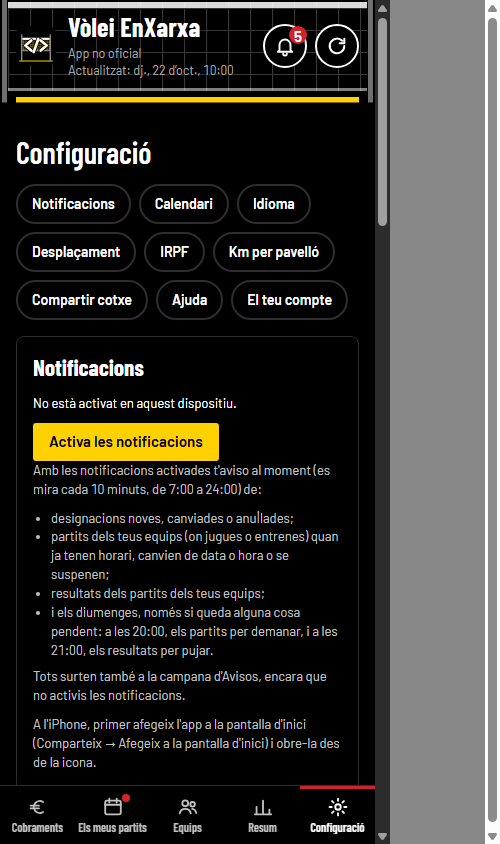
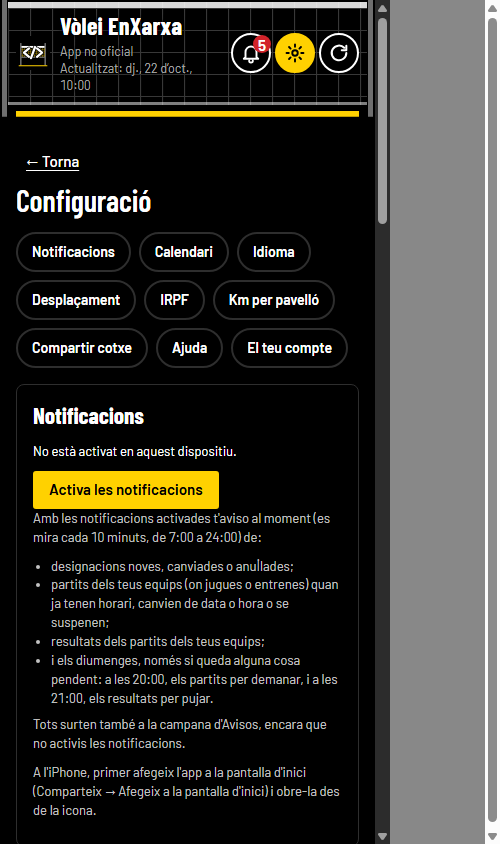
Ajustes: botón de engranaje junto a la campana y página aparte

Changed region(s): [[0.0, 0.0, 0.75, 0.9858], [0.69, 0.4005, 0.72, 0.4313]]

diff --git a/docs/index.html b/docs/index.html
@@ -89,6 +89,9 @@ input[type=checkbox]{accent-color:var(--red);width:16px;height:16px}
 .brand .sub .upd{white-space:nowrap;overflow:hidden;text-overflow:ellipsis}
 a.gh{display:inline-flex;align-items:center;gap:5px;color:inherit;font-weight:600}
 .board .actions{display:flex;gap:8px;align-items:center;flex:none}
+/* Móvil estrecho: 3 botones (Avisos, Ajustes, Actualizar) y el título en una línea; la fecha puede ir en 2 */
+@media (max-width:440px){ .board .actions{gap:4px} .board .actions .iconbtn{width:40px;height:40px} .board .top{gap:10px} .brand{gap:10px!important} .brand .logo{height:34px!important} .board h1{font-size:24px;white-space:nowrap} .brand .sub .upd{white-space:normal} }
+#btnAjustes[aria-current="page"],#mbAjustes[aria-current="page"]{background:var(--yellow);color:#000;border-color:var(--yellow)}
 .board button{border-color:var(--board-ink);color:var(--board-ink)}
 .board button.ghost{border-color:transparent}
 .board button:focus-visible{outline-color:var(--yellow)}
@@ -263,6 +266,11 @@ table.venues td:last-child{text-align:right;white-space:nowrap}
 .grid2{display:grid;grid-template-columns:1fr 1fr;gap:28px}
 /* Ajustes: pestaña propia, una tarjeta por tema e índice arriba */
 .ajustes{max-width:760px}
+.aj-back{padding-left:0;font-weight:700}
+.aj-t:focus{outline:none}   /* el foco se pone al abrir la página (para lectores de pantalla), sin recuadro */
+/* Ajustes es una página aparte: sin pestañas, ni la línea de estado, ni la tarjeta de activar avisos */
+body[data-vista="ajustes"] .views,body[data-vista="ajustes"] #pushCard{display:none}
+@media (max-width:720px){ body[data-vista="ajustes"] #appView{padding-bottom:24px} }
 .aj-t{font-family:var(--display);font-size:30px;margin:0 0 10px}
 .aj-nav{display:flex;flex-wrap:wrap;gap:8px;margin:0 0 16px}
 .aj-nav a{display:inline-flex;align-items:center;min-height:40px;padding:4px 14px;border:2px solid var(--line);border-radius:20px;color:var(--ink);text-decoration:none;font-size:14px;font-weight:600}
@@ -492,8 +500,6 @@ body[data-vista="cobros"]:not(.dep) .board .statline .chev{display:block}
   .views{position:fixed;left:0;right:0;bottom:0;z-index:40;width:auto;max-width:none;margin:0;border:0;border-top:1px solid var(--line);border-radius:0;overflow:visible;background:var(--bg);padding:0 0 env(safe-area-inset-bottom,0px);box-shadow:0 -2px 12px rgba(0,0,0,.08)}
   .views button{flex:1 1 0;min-width:0;position:relative;display:flex;flex-direction:column;align-items:center;justify-content:center;gap:3px;min-height:58px;padding:6px 2px;font-size:13px;line-height:1.1;white-space:nowrap;color:var(--ink-2)}
   .views button span{max-width:100%;overflow:hidden;text-overflow:ellipsis}
-  .views button:nth-last-child(5):first-child,.views button:nth-last-child(5):first-child~button{font-size:12px}
-  .views button:nth-last-child(5):first-child span,.views button:nth-last-child(5):first-child~button span{white-space:normal;text-align:center}
   .views .ico{display:block;width:22px;height:22px}
   .views button[aria-selected="true"]{background:transparent;color:var(--ink);box-shadow:inset 0 3px 0 var(--red)}
   .views button.dot::after{position:absolute;top:8px;left:calc(50% + 9px);margin:0}
@@ -804,7 +810,7 @@ table.clas tr.hist td{padding:4px 0 10px;text-align:left;background:transparent;
 </main>
 
 <!-- ============ App ============ -->
-<div class="minibar" id="miniBar" inert><img src="icon.svg" width="28" height="28" alt=""><strong>Vòlei EnXarxa</strong><button type="button" id="mbAvisos" aria-label="Avisos"><svg viewBox="0 0 24 24" width="20" height="20" aria-hidden="true"><path d="M6 16.5V11a6 6 0 0 1 12 0v5.5l1.8 1.8H4.2zM10 20.5a2 2 0 0 0 4 0" fill="none" stroke="currentColor" stroke-width="2.1" stroke-linecap="round" stroke-linejoin="round"/></svg><span class="bdg hidden" id="mbBdg"></span></button><button type="button" class="arb-only" id="mbSync" aria-label="Actualizar ahora"><svg viewBox="0 0 24 24" width="20" height="20" aria-hidden="true"><path d="M20 12a8 8 0 1 1-2.3-5.7M20 4v5h-5" fill="none" stroke="currentColor" stroke-width="2.2" stroke-linecap="round" stroke-linejoin="round"/></svg></button></div>
+<div class="minibar" id="miniBar" inert><img src="icon.svg" width="28" height="28" alt=""><strong>Vòlei EnXarxa</strong><button type="button" id="mbAvisos" aria-label="Avisos"><svg viewBox="0 0 24 24" width="20" height="20" aria-hidden="true"><path d="M6 16.5V11a6 6 0 0 1 12 0v5.5l1.8 1.8H4.2zM10 20.5a2 2 0 0 0 4 0" fill="none" stroke="currentColor" stroke-width="2.1" stroke-linecap="round" stroke-linejoin="round"/></svg><span class="bdg hidden" id="mbBdg"></span></button><button type="button" id="mbAjustes" aria-label="Ajustes"><svg viewBox="0 0 24 24" width="20" height="20" aria-hidden="true"><g fill="none" stroke="currentColor" stroke-width="2.1" stroke-linecap="round" stroke-linejoin="round"><circle cx="12" cy="12" r="3"/><path d="M12 2.8v2.4M12 18.8v2.4M2.8 12h2.4M18.8 12h2.4M5.5 5.5l1.7 1.7M16.8 16.8l1.7 1.7M5.5 18.5l1.7-1.7M16.8 7.2l1.7-1.7"/></g></svg></button><button type="button" class="arb-only" id="mbSync" aria-label="Actualizar ahora"><svg viewBox="0 0 24 24" width="20" height="20" aria-hidden="true"><path d="M20 12a8 8 0 1 1-2.3-5.7M20 4v5h-5" fill="none" stroke="currentColor" stroke-width="2.2" stroke-linecap="round" stroke-linejoin="round"/></svg></button></div>
 <main id="appView" class="hidden">
   <div class="board">
     <div class="top">
@@ -814,6 +820,7 @@ table.clas tr.hist td{padding:4px 0 10px;text-align:left;background:transparent;
       </div>
       <div class="actions">
         <button id="btnAvisos" class="iconbtn" aria-label="Avisos"><svg viewBox="0 0 24 24" width="22" height="22" aria-hidden="true"><path d="M6 16.5V11a6 6 0 0 1 12 0v5.5l1.8 1.8H4.2zM10 20.5a2 2 0 0 0 4 0" fill="none" stroke="currentColor" stroke-width="2.1" stroke-linecap="round" stroke-linejoin="round"/></svg><span class="bdg hidden" id="avBdg"></span></button>
+        <button id="btnAjustes" class="iconbtn" aria-label="Ajustes"><svg viewBox="0 0 24 24" width="22" height="22" aria-hidden="true"><g fill="none" stroke="currentColor" stroke-width="2.1" stroke-linecap="round" stroke-linejoin="round"><circle cx="12" cy="12" r="3"/><path d="M12 2.8v2.4M12 18.8v2.4M2.8 12h2.4M18.8 12h2.4M5.5 5.5l1.7 1.7M16.8 16.8l1.7 1.7M5.5 18.5l1.7-1.7M16.8 7.2l1.7-1.7"/></g></svg></button>
         <button id="btnSync" class="iconbtn arb-only" aria-label="Actualizar ahora"><svg viewBox="0 0 24 24" width="22" height="22" aria-hidden="true"><path d="M20 12a8 8 0 1 1-2.3-5.7M20 4v5h-5" fill="none" stroke="currentColor" stroke-width="2.2" stroke-linecap="round" stroke-linejoin="round"/></svg></button>
       </div>
     </div>
@@ -837,7 +844,6 @@ table.clas tr.hist td{padding:4px 0 10px;text-align:left;background:transparent;
     <button type="button" data-view="agenda" role="tab"><svg class="ico" viewBox="0 0 24 24" aria-hidden="true"><g fill="none" stroke="currentColor" stroke-width="2" stroke-linecap="round"><rect x="3.5" y="5" width="17" height="15" rx="2"/><path d="M3.5 9.5h17M8 3v4M16 3v4"/></g></svg><span>Mis partidos</span></button>
     <button type="button" data-view="equipos" role="tab" id="tabEquipos"><svg class="ico" viewBox="0 0 24 24" aria-hidden="true"><g fill="none" stroke="currentColor" stroke-width="2" stroke-linecap="round"><circle cx="9" cy="8" r="3.2"/><path d="M3 19c.6-3.3 3-5 6-5s5.4 1.7 6 5"/><circle cx="17" cy="9" r="2.5"/><path d="M16.5 14c2.4.3 4 1.9 4.5 4.5"/></g></svg><span>Equipos</span></button>
     <button type="button" data-view="resumen" role="tab" class="arb-only"><svg class="ico" viewBox="0 0 24 24" aria-hidden="true"><path d="M5 20v-8M12 20V5M19 20v-5M3 20h18" fill="none" stroke="currentColor" stroke-width="2" stroke-linecap="round"/></svg><span>Resumen</span></button>
-    <button type="button" data-view="ajustes" role="tab"><svg class="ico" viewBox="0 0 24 24" aria-hidden="true"><g fill="none" stroke="currentColor" stroke-width="2" stroke-linecap="round" stroke-linejoin="round"><circle cx="12" cy="12" r="3"/><path d="M12 2.8v2.4M12 18.8v2.4M2.8 12h2.4M18.8 12h2.4M5.5 5.5l1.7 1.7M16.8 16.8l1.7 1.7M5.5 18.5l1.7-1.7M16.8 7.2l1.7-1.7"/></g></svg><span>Ajustes</span></button>
   </div>
   <div class="banner hidden" id="banner"></div>
   <div class="alerts" id="alerts"></div>
@@ -884,7 +890,8 @@ table.clas tr.hist td{padding:4px 0 10px;text-align:left;background:transparent;
   </details>
 
   <div id="ajustes" class="hidden ajustes">
-    <h2 class="aj-t">Ajustes</h2>
+    <button type="button" class="ghost back aj-back" data-aj-back>← Volver</button>
+    <h2 class="aj-t" tabindex="-1">Ajustes</h2>
     <nav class="aj-nav" aria-label="Secciones de Ajustes">
       <a href="#aj-avisos">Notificaciones</a><a href="#aj-cal">Calendario</a><a href="#aj-idioma">Idioma</a><a class="arb-only" href="#aj-despl">Desplazamiento</a><a class="arb-only" href="#aj-irpf">IRPF</a><a class="arb-only" href="#aj-km">Km por pabellón</a><a class="arb-only" href="#aj-coche">Compartir coche</a><a href="#aj-ayuda">Ayuda</a><a href="#aj-cuenta">Tu cuenta</a>
     </nav>
@@ -1696,7 +1703,8 @@ function render(){
   $('tabEquipos').classList.toggle('hidden', GUEST);
   led.classList.toggle('hidden', VIEW!=='cobros'); $('agenda').classList.toggle('hidden', VIEW!=='agenda'); $('equipos').classList.toggle('hidden', VIEW!=='equipos'); $('resumen').classList.toggle('hidden', VIEW!=='resumen');
   $('calc').classList.toggle('hidden', VIEW!=='calc'); if(VIEW!=='calc') $('calc').dataset.built='';
-  $('ajustes').classList.toggle('hidden', VIEW!=='ajustes'); $('manualPanel').classList.toggle('hidden', !['cobros','agenda'].includes(VIEW));
+  $('ajustes').classList.toggle('hidden', VIEW!=='ajustes');
+  for(const id of ['btnAjustes','mbAjustes']) VIEW==='ajustes' ? $(id).setAttribute('aria-current','page') : $(id).removeAttribute('aria-current'); $('manualPanel').classList.toggle('hidden', !['cobros','agenda'].includes(VIEW));
   const noCtrl = ['equipos','calc','ajustes'].includes(VIEW);
   $('ctrl').classList.toggle('hidden', noCtrl); if(noCtrl) $('fsum').classList.add('hidden');
   if(VIEW!=='agenda'){ $('ctrlSlot').innerHTML=''; AG_INFO=null; }
@@ -1866,7 +1874,14 @@ function renderCalcOut(){
     <p class="small muted">Una ida y vuelta por jornada y pabellón: mañana y tarde cuentan aparte. Los peajes van aparte.</p>
     <p>${r.km>0 ? `${r.km} km × 2 × ${eur(rate)} = <b>${eur(r.km*2*rate)}</b>${r.minimo?` → <span>mínimo</span> <b>${eur(minT)}</b>`:''}` : '<span class="muted">Pon los km de ida arriba para ver la cuenta.</span>'}</p>`;
 }
-$('ajustes').addEventListener('click', e=>{ if(e.target.closest('[data-open-calc]')) openCalc(''); });
+// Ajustes: página aparte desde el engranaje de la cabecera; "Volver" lleva a la pestaña de antes.
+let AJ_FROM = null;
+function openAjustes(){ if(VIEW!=='ajustes') AJ_FROM=VIEW; VIEW='ajustes'; render(); scrollTo(0,0); $('ajustes').querySelector('.aj-t')?.focus(); }
+for(const id of ['btnAjustes','mbAjustes']) $(id).addEventListener('click', openAjustes);
+$('ajustes').addEventListener('click', e=>{
+  if(e.target.closest('[data-open-calc]')) openCalc('');
+  if(e.target.closest('[data-aj-back]')){ VIEW = AJ_FROM && AJ_FROM!=='ajustes' ? AJ_FROM : (DEP?'agenda':'cobros'); render(); scrollTo(0,0); }
+});
 $('calc').addEventListener('click', e=>{ if(e.target.closest('[data-calc-back]')){ VIEW='cobros'; render(); scrollTo(0,0); } });
 $('calc').addEventListener('input', e=>{
   const k=e.target.dataset.c; if(k==null && e.target.dataset.tcat==null) return;
@@ -2330,6 +2345,7 @@ try{ AGROLE=localStorage.getItem('liq-agenda-rol')||'todo'; }catch(e){}
 // De quién es cada partido de la agenda: arbitraje, jugador (también invitado), entrenador o un equipo que solo sigo.
 const itemRole = it => it.m ? 'arbitro' : (it.x.f.rol==='entrenador' ? 'entrenador' : it.x.f.rol ? 'jugador' : 'sigo');
 try{ VIEW=localStorage.getItem(VIEW_KEY)||'cobros'; }catch(e){}
+if(VIEW==='ajustes') VIEW='cobros';   // Ajustes es una página aparte: no se abre sola al entrar
 // Al abrir desde una notificación (?vista=agenda), directamente en esa pestaña.
 let OPEN_AVISOS = new URLSearchParams(location.search).has('avisos');   // desde una notificación: abrir los Avisos
 { const v=new URLSearchParams(location.search).get('vista'); if(['cobros','agenda','equipos','resumen'].includes(v)){ VIEW=v; history.replaceState(null,'',location.pathname); }

diff --git a/docs/i18n-ca.js b/docs/i18n-ca.js
@@ -507,6 +507,7 @@ I.exact = {
 "Secciones de Ajustes": "Seccions de Configuració",
 "Ayuda": "Ajuda",
 "Acciones": "Accions",
+"← Volver": "← Torna",
 "Preguntas frecuentes": "Preguntes freqüents",
 "Km por pabellón": "Km per pavelló",
 "¿Algo no cuadra o no funciona? Escríbeme a": "Alguna cosa no quadra o no funciona? Escriu-me a",

diff --git a/tools/i18n/exact.py b/tools/i18n/exact.py
@@ -344,6 +344,7 @@ EXACT = {
 "Secciones de Ajustes": "Seccions de Configuració",
 "Ayuda": "Ajuda",
 "Acciones": "Accions",
+"← Volver": "← Torna",
 "Preguntas frecuentes": "Preguntes freqüents",
 "Km por pabellón": "Km per pavelló",
 "¿Algo no cuadra o no funciona? Escríbeme a": "Alguna cosa no quadra o no funciona? Escriu-me a",

diff --git a/CLAUDE.md b/CLAUDE.md
@@ -340,9 +340,11 @@ La respuesta incluye un resumen de km por árbitro (`km: [...]`); los registros 
 
 ## Ajustes como pestaña (27-oct-2026)
 
-- Ajustes ya no es un desplegable al final de la página: es la 5ª pestaña (`VIEW='ajustes'`, `?vista=ajustes`, engranaje),
-  `#ajustes` con un índice de secciones arriba y una tarjeta por tema (`.aj-card`, mismos ids de siempre). Con 5 pestañas,
-  en el móvil la letra baja a 12 px y el texto puede partirse en 2 líneas. "Añadir un partido a mano" solo en Cobros y
+- Ajustes ya no es un desplegable al final de la página: botón de engranaje junto a la campana (cabecera y barra compacta,
+  `#btnAjustes`/`#mbAjustes`, amarillo mientras está abierta) que abre una página aparte (`VIEW='ajustes'`, `?vista=ajustes`):
+  "← Volver" a la pestaña de antes (`AJ_FROM`), sin barra de pestañas ni tarjeta de avisos, y no se recuerda al recargar.
+  `#ajustes` con un índice de secciones arriba y una tarjeta por tema (`.aj-card`, mismos ids de siempre). Con 3 botones, por
+  debajo de 440 px los botones de la cabecera miden 40 px y el título va en una línea. "Añadir un partido a mano" solo en Cobros y
   Mis partidos. Ayuda: `docs/ayuda.html` (preguntas frecuentes en castellano y catalán, como las legales) y contacto.
 
 ## Cabecera por pestaña (21-oct-2026)
